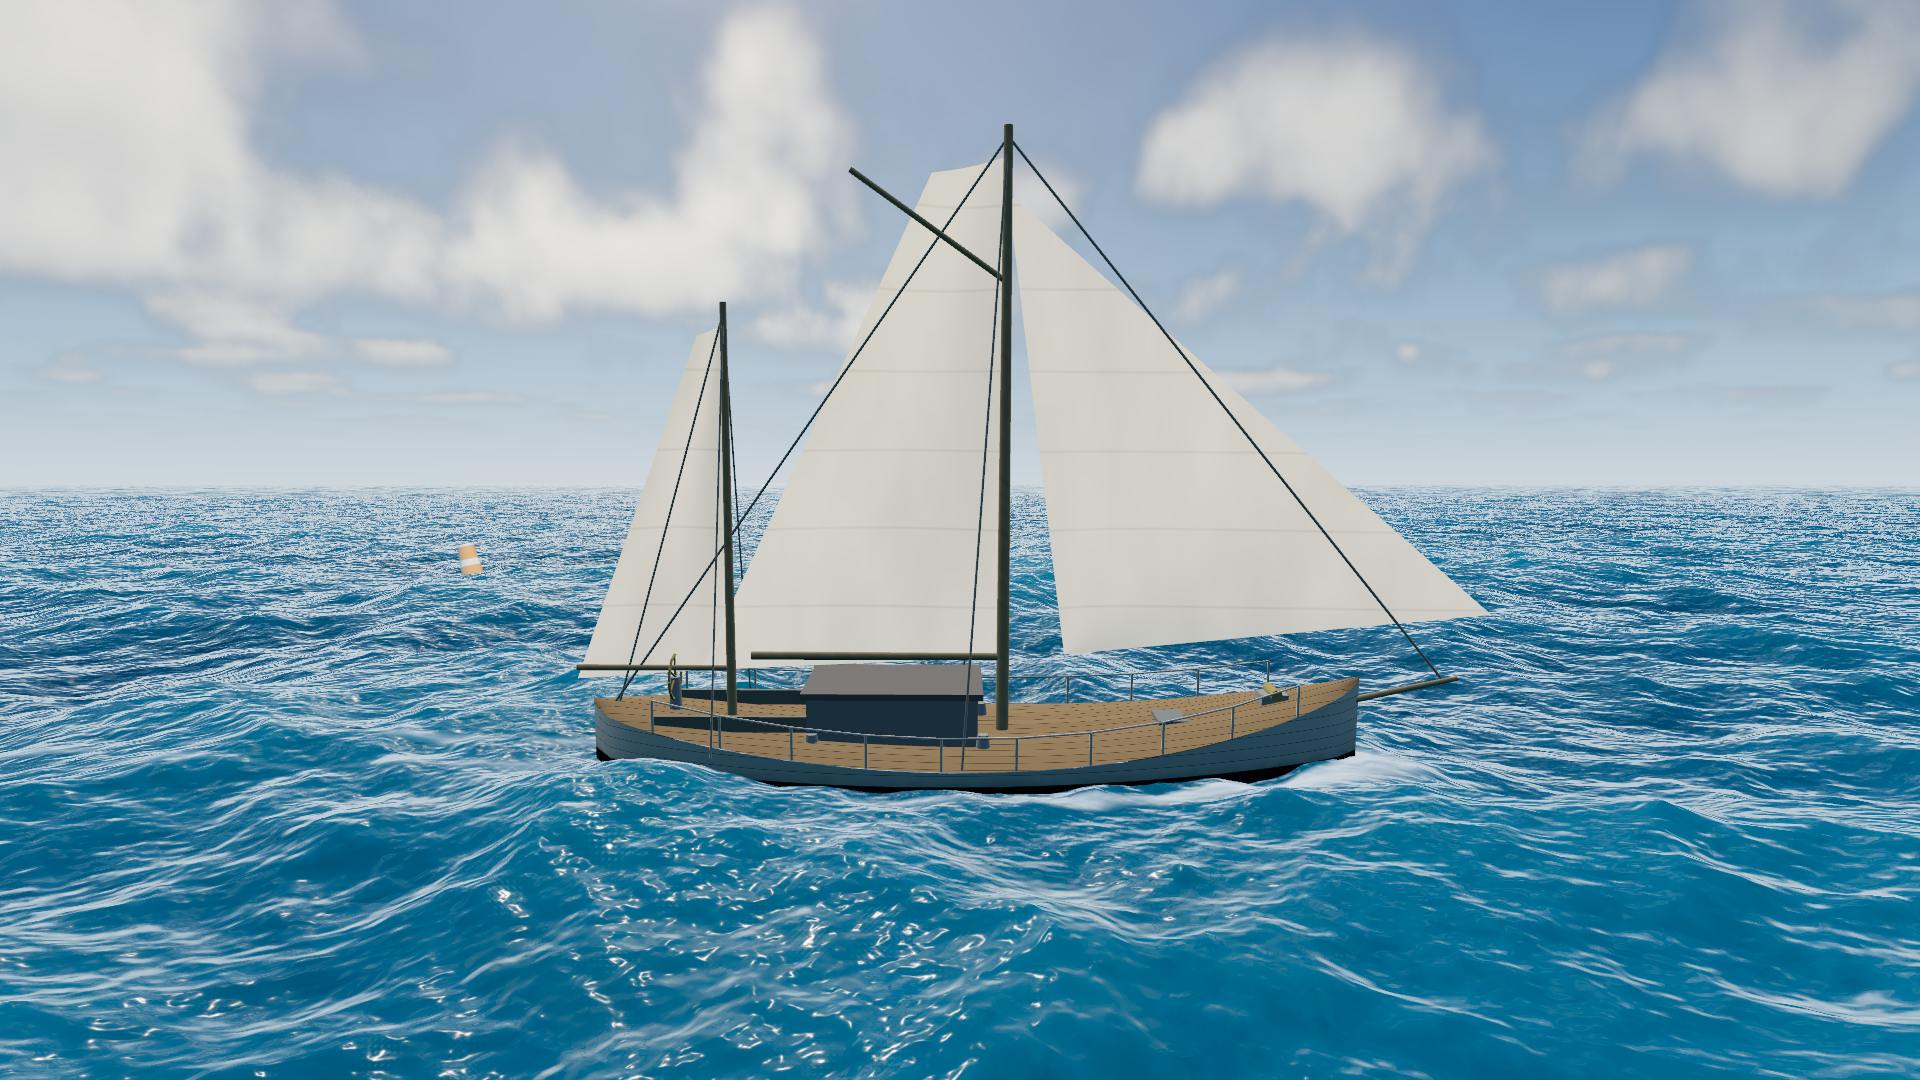
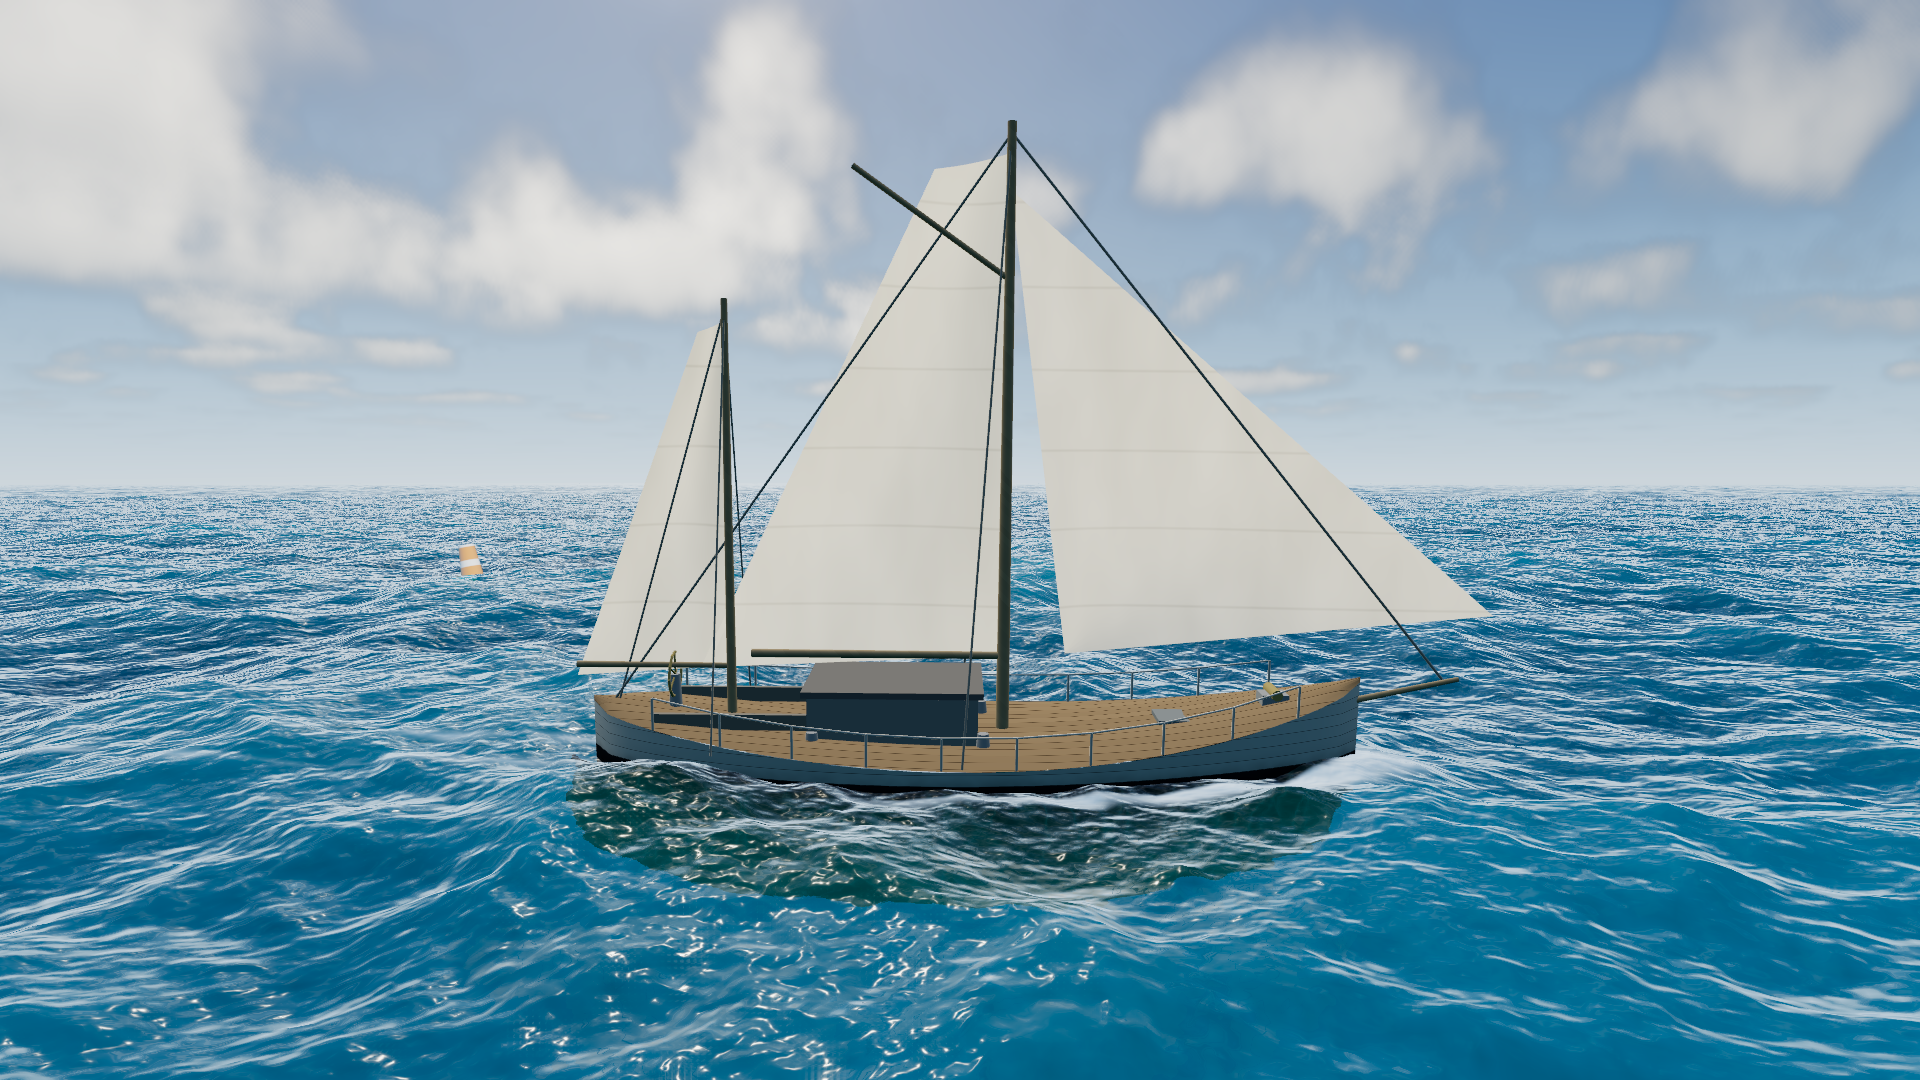
Refract in every preset, with the thickness taken from depth
Gating refraction on `seabedMix` was only half the correction. Eight of the ten
presets have no bathymetry: they were paying for the framebuffer copy that
`viewportSharedTexture` forces every frame and getting nothing back, and the
hull below the waterline stayed invisible in all of them — which was never a
seabed question. Anything submerged is behind the water.

So the water thickness now comes from the depth buffer rather than from the
bathymetry. `linearDepth` is orthographic-normalised, so undoing the
normalisation gives view-Z in metres and the ratio to this fragment's own view-Z
turns the separation into distance along the ray. Where nothing is behind, the
separation is enormous, Beer-Lambert goes to zero and the result is the pure
volume colour — the open-ocean case falls out of the general one instead of
being a branch beside it. Over a bathymetry the analytic path still wins,
because it is validated and the depth buffer cannot match it at grazing angles.

`× seabedMix` is gone from the transmittance. It encoded the assumption that the
only thing ever behind the water is a seabed, and that assumption was the reason
G2 and the wasted copy looked like two separate problems.

Open Sea now shows the hull under the waterline. Coral Shallows is unchanged,
which is the check that this did not reach further than intended.

Two false trails on the way, both instrument rather than code: `smoke` reported
[…]

diff --git a/src/ocean/material.js b/src/ocean/material.js
@@ -22,7 +22,7 @@ import {
 	Fn, If, abs, cameraPosition, dFdx, dFdy, dot, exp, faceDirection, float, fwidth, length, max, min, mix,
 	mx_fractal_noise_float, normalize, oneMinus, positionGeometry, positionWorld, pow, reflect,
 	refract, saturate, screenUV, smoothstep, step, texture, varyingProperty, vec2, vec3,
-	linearDepth, viewportDepthTexture, viewportSharedTexture,
+	cameraFar, cameraNear, linearDepth, viewportDepthTexture, viewportSharedTexture,
 } from 'three/tsl';
 
 import { createWaveEvaluator, foamFromJacobian } from './waves.js';
@@ -488,65 +488,84 @@ export function createOceanMaterial( env, field, sky, opts = {} ) {
 
 			}
 
-			// The bottom the viewer actually sees, rather than a second guess at it.
-			//
-			// A seabed mesh is already in the scene and already rendered — with real
-			// geometry, real shading and real caustics — and then this shader drew an
-			// opaque surface straight over it and rebuilt the bottom from noise. We
-			// were rendering the bottom twice and shipping the worse one. The
-			// analytic version cannot hold the dynamic range (its albedo spans 0.30
-			// to 0.52 of the sand colour, where a real reef runs from near-black
-			// channels to bright sand), it has no shadows, and it cannot show a
-			// submerged object at all — which is why the hull disappeared below the
-			// waterline when seen from above.
-			//
-			// So: sample the frame behind this pixel, displaced by where the
-			// refracted ray actually comes up. The lateral shift is metres at the
-			// bottom, turned into screen UV by dividing by the view distance — a
-			// metre at distance d subtends roughly 1/d of the frame. Clamped,
-			// because a grazing ray's shift goes to infinity and would drag colour
-			// in from the far side of the screen.
-			if ( refracting ) {
-
-				const lateral = refr.xz.div( max( refr.y.negate(), float( 0.28 ) ) )
-					.mul( tBed ).toVar( 'refrLateral' );
-
-				const shift = lateral.mul( float( 0.30 ).div( max( viewDist, float( 1.0 ) ) ) );
-				const clamped = shift.div( max( length( shift ).div( 0.06 ), float( 1.0 ) ) );
-
-				// Taper the shift to nothing at the frame border. `saturate` pins an
-				// out-of-range lookup to the edge row, so every pixel along the bottom
-				// of the frame read the same texel and the refraction came out as
-				// vertical streaks. There is no information outside the frame to
-				// refract; the honest thing is to stop bending near the edge.
-				const border = smoothstep( 0.0, 0.05, screenUV.x )
-					.mul( smoothstep( 1.0, 0.95, screenUV.x ) )
-					.mul( smoothstep( 0.0, 0.05, screenUV.y ) )
-					.mul( smoothstep( 1.0, 0.95, screenUV.y ) );
-
-				const shifted = saturate( screenUV.add( clamped.mul( border ) ) ).toVar( 'refrUV' );
-
-				// Reject a sample that turns out to be in *front* of the water.
-				//
-				// Nothing constrains the shifted lookup to land on submerged
-				// geometry: at the waterline it happily reads the hull's topsides and
-				// smears them down into the sea, which showed up immediately as a
-				// bright band under the boat. The depth buffer answers the only
-				// question that matters — is what I just sampled behind me? — and a
-				// comparison needs far less precision than a distance would, so this
-				// survives a hundred-kilometre far plane where reconstructing the
-				// actual separation would not.
-				const dHere = linearDepth().toVar( 'refrDepthHere' );
-				const dThere = linearDepth( viewportDepthTexture( shifted ) ).toVar( 'refrDepthThere' );
-				const behind = step( dHere, dThere ).toVar( 'refrBehind' );
-
-				const uv = mix( screenUV, shifted, behind ).toVar( 'refrFinalUV' );
-
-				bedColor.assign( viewportSharedTexture( uv ).rgb );
-
-			}
 
 		} );
+
+		// The scene the viewer actually sees through the water, rather than a
+		// second guess at it — and for every preset, not only the two with a
+		// bathymetry.
+		//
+		// A seabed mesh was already in the scene and already rendered, with real
+		// geometry, real shading and real caustics, and this shader drew an opaque
+		// surface over it and rebuilt the bottom from noise. But gating that on
+		// `seabedMix` was only half the correction. Eight of the ten presets have
+		// no bottom and were paying for the framebuffer copy `viewportSharedTexture`
+		// forces every frame while getting nothing back for it — and the hull below
+		// the waterline stayed invisible in all of them, which is not a seabed
+		// question at all. Anything submerged is behind the water.
+		//
+		// So the thickness comes from the depth buffer instead of the bathymetry.
+		// `linearDepth` is orthographic-normalised, so undoing the normalisation
+		// gives view-Z in metres, and the ratio to this fragment's own view-Z turns
+		// the separation into distance along the ray. Where nothing is behind, the
+		// separation is enormous, transmittance goes to zero and the result is the
+		// pure volume colour — the open-ocean case falls out of the general one
+		// rather than being a branch beside it.
+		const refracted = vec3( 0.0 ).toVar( 'refracted' );
+		const thickness = float( 0.0 ).toVar( 'waterThickness' );
+
+		if ( refracting ) {
+
+			// Lateral shift of whatever is behind, in metres, turned into screen UV
+			// by dividing by the view distance — a metre at distance d subtends
+			// roughly 1/d of the frame. Clamped, because a grazing ray's shift goes
+			// to infinity and would drag colour in from the far side of the screen.
+			//
+			// Scaled by the *analytic* depth where there is one and by a fixed near
+			// layer where there is not: the shift has to be chosen before the
+			// thickness is known, since the thickness depends on where the sample
+			// lands. One metre of assumed relief is enough to bend the hull.
+			const bend = mix( float( 1.0 ), tBed, u.seabedMix ).toVar( 'refrBend' );
+			const lateral = refr.xz.div( max( refr.y.negate(), float( 0.28 ) ) ).mul( bend );
+
+			const shift = lateral.mul( float( 0.30 ).div( max( viewDist, float( 1.0 ) ) ) );
+			const clamped = shift.div( max( length( shift ).div( 0.06 ), float( 1.0 ) ) );
+
+			// Taper to nothing at the frame border. `saturate` pins an out-of-range
+			// lookup to the edge row, so every pixel along the bottom of the frame
+			// read the same texel and the refraction came out as vertical streaks.
+			// There is no information outside the frame; the honest thing is to stop
+			// bending near the edge.
+			const border = smoothstep( 0.0, 0.05, screenUV.x )
+				.mul( smoothstep( 1.0, 0.95, screenUV.x ) )
+				.mul( smoothstep( 0.0, 0.05, screenUV.y ) )
+				.mul( smoothstep( 1.0, 0.95, screenUV.y ) );
+
+			const shifted = saturate( screenUV.add( clamped.mul( border ) ) ).toVar( 'refrUV' );
+
+			// Reject a sample that turns out to be in *front* of the water. Nothing
+			// constrains the shifted lookup to land on submerged geometry: at the
+			// waterline it happily read the hull's topsides and smeared them down
+			// into the sea, which showed up at once as a bright band under the boat.
+			const dHere = linearDepth().toVar( 'refrDepthHere' );
+			const dShift = linearDepth( viewportDepthTexture( shifted ) ).toVar( 'refrDepthShift' );
+			const ok = step( dHere, dShift ).toVar( 'refrBehind' );
+
+			const uv = mix( screenUV, shifted, ok ).toVar( 'refrFinalUV' );
+			const dThere = mix( linearDepth( viewportDepthTexture( screenUV ) ), dShift, ok )
+				.toVar( 'refrDepthThere' );
+
+			refracted.assign( viewportSharedTexture( uv ).rgb );
+
+			// Both depths back into metres of view-Z, then along the ray.
+			const span = cameraFar.sub( cameraNear );
+			const zHere = dHere.mul( span ).add( cameraNear ).toVar( 'refrZHere' );
+			const zThere = dThere.mul( span ).add( cameraNear );
+
+			thickness.assign( max( zThere.sub( zHere ), float( 0.0 ) )
+				.mul( viewDist.div( max( zHere, float( 0.05 ) ) ) ) );
+
+		}
 
 		const pathLen = mix( maxPath, tBed, u.seabedMix ).toVar( 'pathLen' );
 
@@ -616,8 +635,18 @@ export function createOceanMaterial( env, field, sky, opts = {} ) {
 		).toVar( 'skyOcc' );
 
 
-		// Beer-Lambert: how much of the bottom survives the water column.
-		const T = transmittance( u.absorption, pathLen ).mul( u.seabedMix ).toVar( 'T' );
+		// Beer-Lambert: how much of whatever is behind survives the water column.
+		//
+		// Over a bathymetry the path is the analytic one, which is validated and
+		// which the depth buffer cannot beat at grazing angles. Everywhere else it
+		// is the depth-derived thickness, so a submerged hull one metre under shows
+		// through and open water two hundred metres deep does not. `× seabedMix`
+		// used to sit here and is gone: it was the assumption that the only thing
+		// ever behind the water is a seabed.
+		const optical = mix( thickness, pathLen, u.seabedMix ).toVar( 'optical' );
+		const T = ( refracting
+			? transmittance( u.absorption, optical )
+			: transmittance( u.absorption, pathLen ).mul( u.seabedMix ) ).toVar( 'T' );
 
 		// Light reaching the volume. `ambient` alone is a *constant* — so until
 		// this term existed the body colour was identical on every face of every
@@ -654,7 +683,8 @@ export function createOceanMaterial( env, field, sky, opts = {} ) {
 			.add( u.waterScatter.mul( skyLight ).mul( 0.80 ).mul( skyOcc ) )
 			.toVar( 'volume' );
 
-		const body = bedColor.mul( T ).add( volume.mul( oneMinus( T ) ) ).toVar( 'body' );
+		const behind = refracting ? refracted : bedColor;
+		const body = behind.mul( T ).add( volume.mul( oneMinus( T ) ) ).toVar( 'body' );
 
 		/* --- contact with the vessel ----------------------------------- */
 
